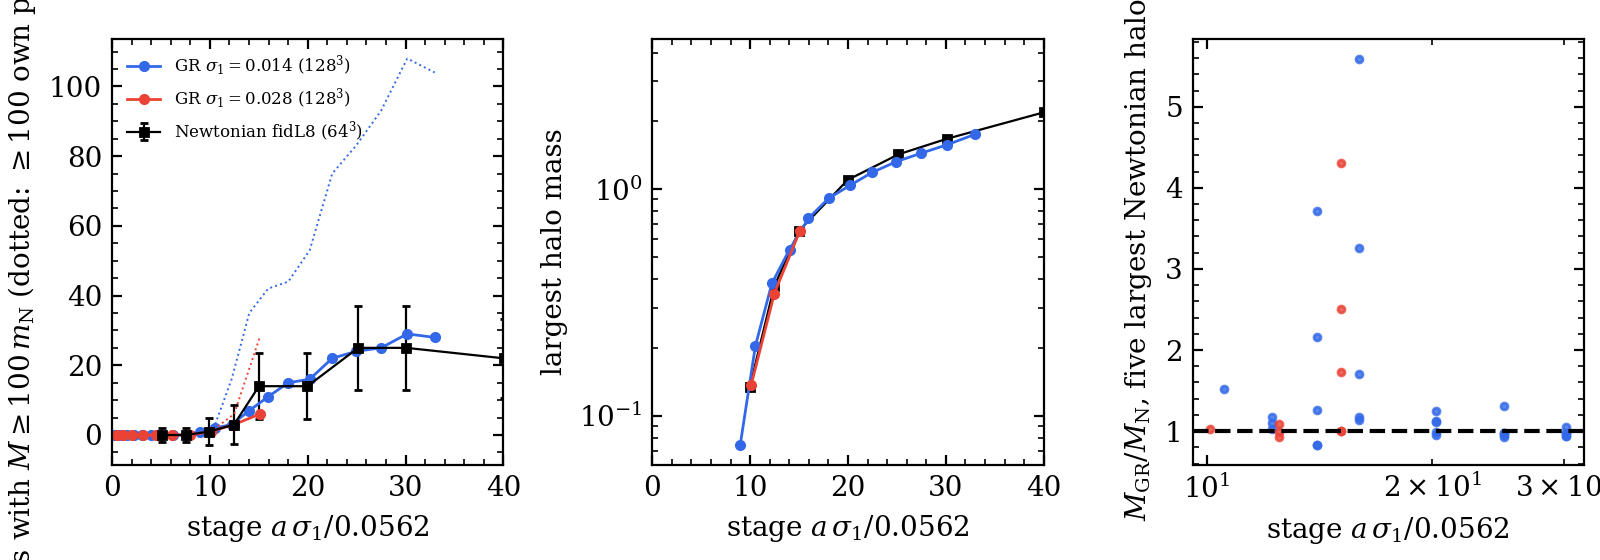
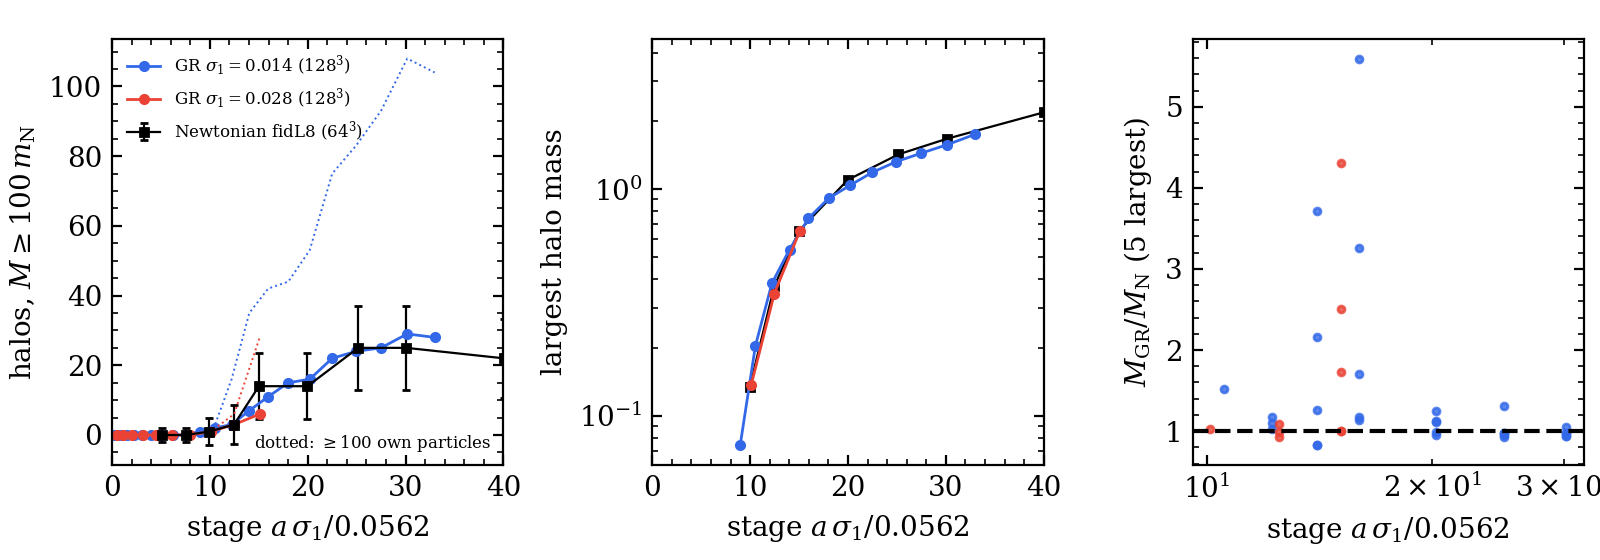
population: redrawn GR figures (labels, spacing; run B-20261124-135404-ca06d42); mosaic keeps the 99.5 per cent range of K

diff --git a/tracks/B-emd-gw/population/scripts/fig_mosaic.py b/tracks/B-emd-gw/population/scripts/fig_mosaic.py
@@ -111,7 +111,7 @@ def main():
     for p, (f2, lab, cm) in enumerate(panels):
         ax = axs[1, p]
         if cm == "RdBu_r":
-            v = float(np.abs(f2).max())                 # whole range: the halo cores show
+            v = float(np.percentile(np.abs(f2), 99.5))  # the full range (B-20261124-135412-ab31dae) washes the plane out
             im = ax.imshow(f2, origin="lower", extent=ext, cmap=cm, vmin=-v, vmax=v)
         else:
             im = ax.imshow(f2, origin="lower", extent=ext, cmap=cm)

diff --git a/tracks/B-emd-gw/population/JOURNAL.md b/tracks/B-emd-gw/population/JOURNAL.md
@@ -542,3 +542,9 @@ It is also the gauge leg of G2 item C2 for the population box. Predictions [JUDG
   a = 100; above 16 k_f the corrected Omega_qs at a = 121 at least ten times smaller than the
   zero-shift run's 2.3e-4 (the excess is coordinate motion). Refuted if it agrees within a factor
   3 there (then the excess is not a spatial-gauge effect: mesh or physics, for the legs to decide).
+
+Figures redrawn (06:55): `pop_gr_halos`, `pop_gr_stop` with shorter labels and wider spacing from
+the same JSON (run B-20261124-135404-ca06d42; looked at, labels no longer cut). The mosaic with the
+full colour range of K (B-20261124-135412-ab31dae) washes the plane out, so the package keeps the
+first drawing (B-20261124-133709-85c4be7, 99.5 per cent range, saturated in the core) and the
+script returns to that range.
